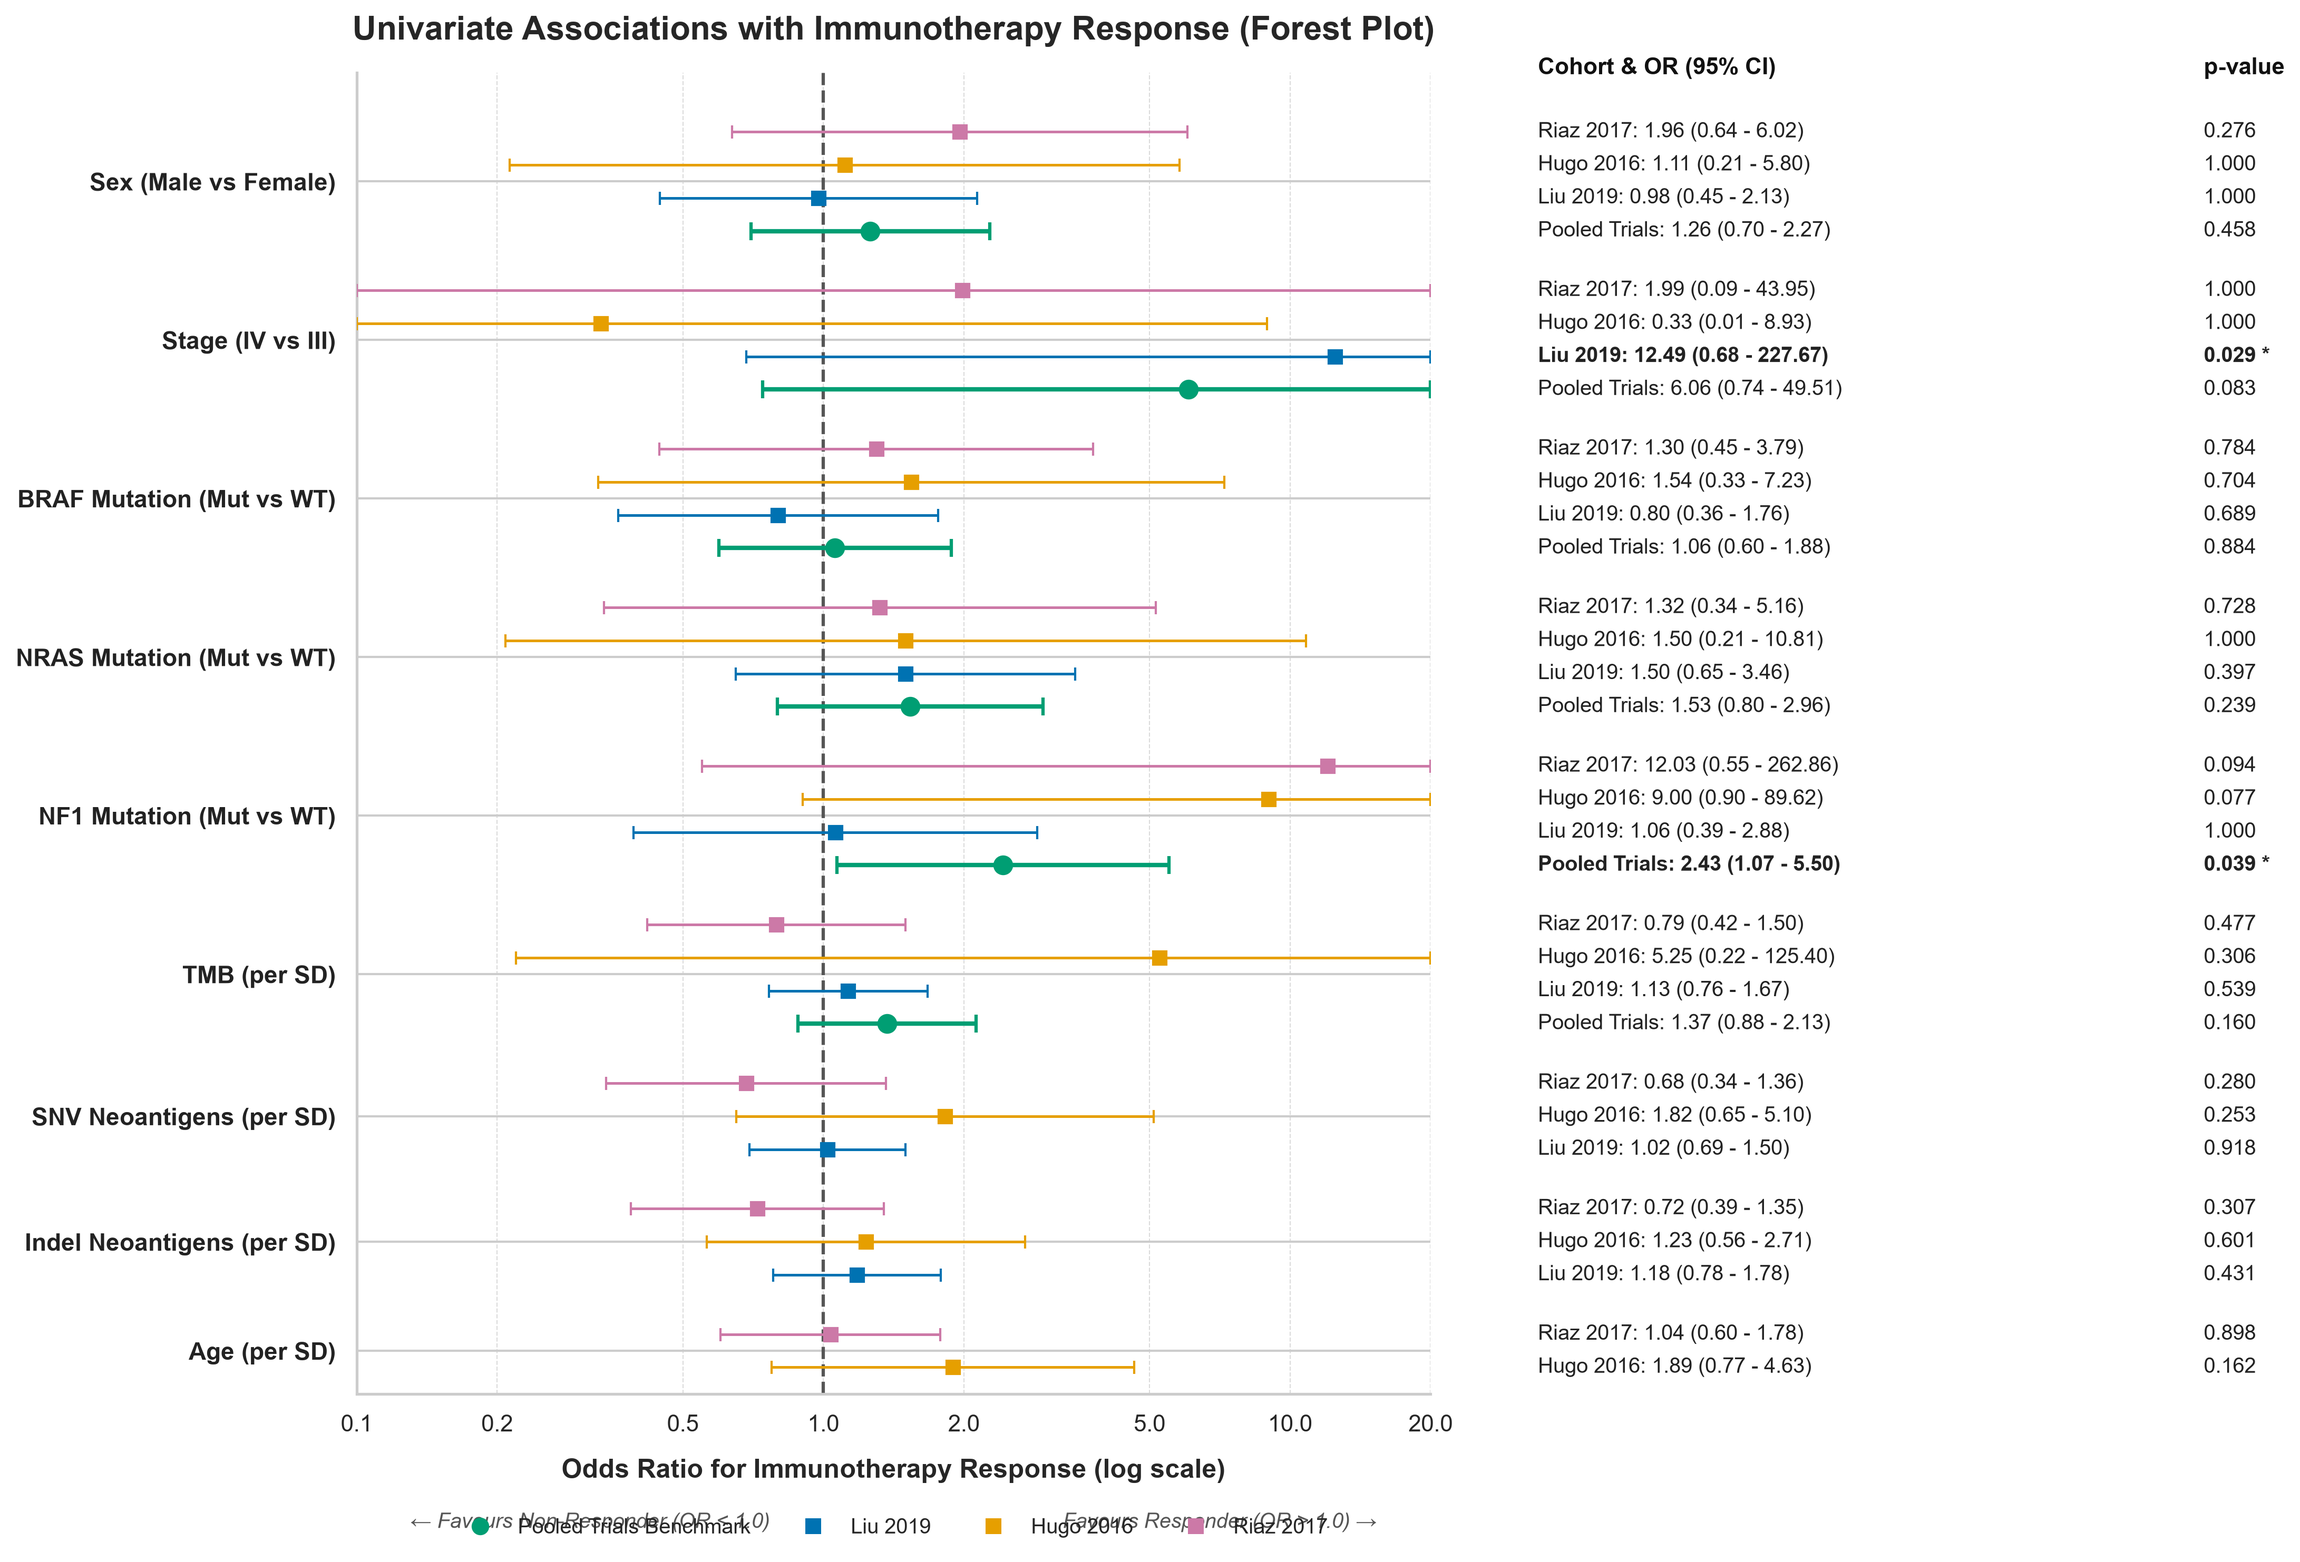
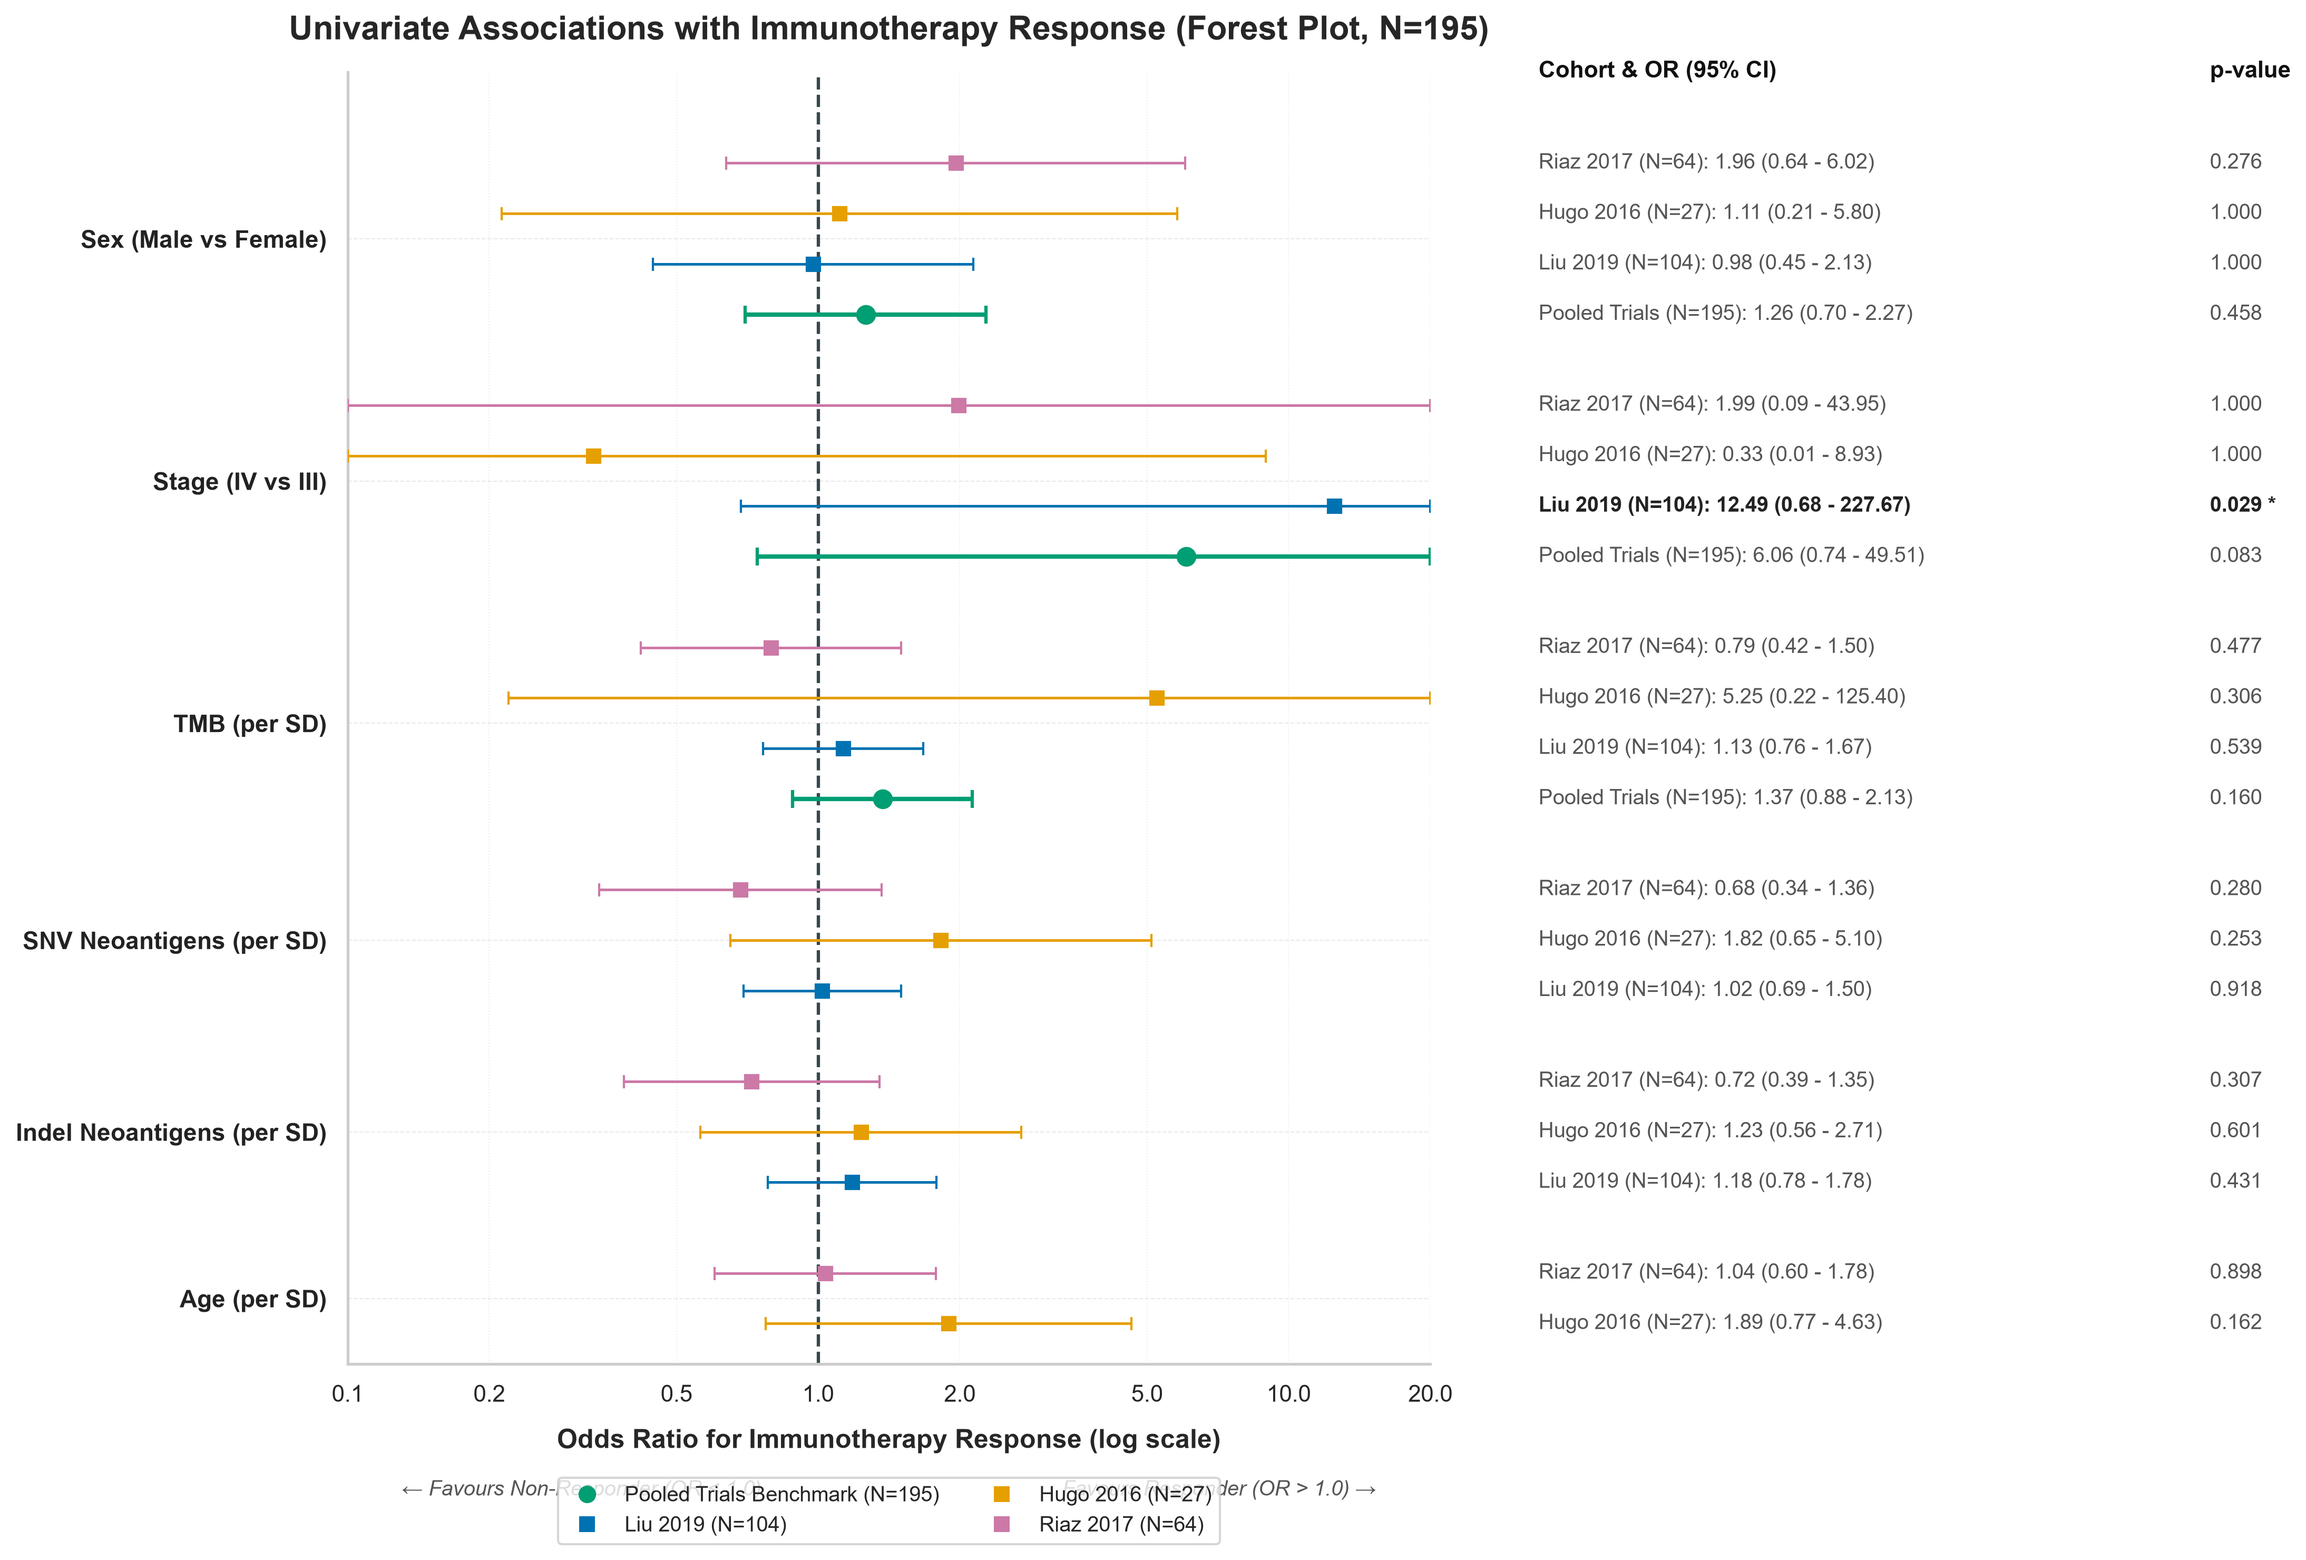
refactor(clinical-analysis): update run_univariate_associations.py to conform to project guidelines
- Use src.utils.paths constants (PLOTS_DIR, LOG_DIR, DATA_DIR, rel_path) instead of hardcoded paths.
- Incorporate get_cohort_color and set_presentation_style from src.styles.
- Add dynamic patient sample count N to plot title and legend labels.
- Apply British English spelling throughout docstrings and comments.
- Update TeeStream log handling and save_fig figure export.

diff --git a/q1-response-predictor/scripts/clinical_analysis/run_univariate_associations.py b/q1-response-predictor/scripts/clinical_analysis/run_univariate_associations.py
@@ -1,5 +1,4 @@
-"""
-Univariate Association Analysis Script for Clinical and Genomic Variables.
+"""Univariate Association Analysis Script for Clinical and Genomic Variables.
 
 Evaluates univariate statistical associations between baseline clinical/genomic features
 (Sex, Clinical Stage, BRAF/NRAS/NF1 mutations, Age, TMB, Neoantigens) and immunotherapy response (CR/PR vs. PD)
@@ -23,21 +22,31 @@ from scipy.optimize import minimize
 from scipy.stats import fisher_exact, norm
 import seaborn as sns
 
-# Bootstrap project root resolution for top-level import
-BASE_DIR = Path(__file__).resolve().parent.parent.parent
-if str(BASE_DIR) not in sys.path:
-    sys.path.append(str(BASE_DIR))
+# ---------------------------------------------------------------------------
+# Bootstrap project root resolution for top-level imports
+# ---------------------------------------------------------------------------
+
+_SUBPROJECT_ROOT = Path(__file__).resolve().parents[2]
+if str(_SUBPROJECT_ROOT) not in sys.path:
+    sys.path.insert(0, str(_SUBPROJECT_ROOT))
 
 from src.data_loaders import load_hugo_2016, load_liu_2019, load_riaz_2017
-from src.styles import COHORT_PALETTE, set_presentation_style
+from src.styles import COHORT_PALETTE, get_cohort_color, set_presentation_style
 from src.utils.logging import TeeStream
-from src.utils.paths import find_project_root
-from src.utils.plotting import resolve_colors, save_fig
+from src.utils.paths import (
+    CONFIG_DIR,
+    DATA_DIR,
+    LOG_DIR,
+    PLOTS_DIR,
+    PROJECT_ROOT,
+    REPORTS_DIR,
+    SUBPROJECT_ROOT,
+    rel_path,
+)
+from src.utils.plotting import save_fig
 
 # Module-level Constants
-DATA_DIR = find_project_root(Path(__file__).resolve()) / "data"
-PLOT_DIR = find_project_root(Path(__file__).resolve()) / "plots" / "clinical"
-LOG_DIR = find_project_root(Path(__file__).resolve()) / "logs"
+PLOT_DIR = PLOTS_DIR / "clinical"
 LOG_PATH = LOG_DIR / "run_univariate_associations.log"
 
 CATEGORICAL_VARS: Dict[str, str] = {
@@ -56,10 +65,14 @@ CONTINUOUS_VARS: Dict[str, List[str]] = {
 }
 
 
-def _calc_categorical_or(contingency: pd.DataFrame, df_temp: pd.DataFrame, col: str) -> Tuple[float, float, float, float]:
-    """Calculates Odds Ratio and 95% CI for a 2x2 contingency matrix.
+def _calc_categorical_or(contingency: pd.DataFrame) -> Tuple[float, float, float, float]:
+    """Calculates Odds Ratio and 95% CI for a 2x2 contingency matrix using Haldane-Anscombe correction if needed.
 
-    contingency rows: variable value (0 vs 1); cols: response (0 vs 1).
+    Args:
+        contingency: 2x2 contingency matrix (variable vs response).
+
+    Returns:
+        Tuple of (odds_ratio, ci_lower, ci_upper, p_value).
     """
     a = contingency.loc[1, 1.0] if (1 in contingency.index and 1.0 in contingency.columns) else 0
     b = contingency.loc[1, 0.0] if (1 in contingency.index and 0.0 in contingency.columns) else 0
@@ -82,6 +95,10 @@ def _calc_categorical_or(contingency: pd.DataFrame, df_temp: pd.DataFrame, col: 
 
 def _fit_univariate_logit(x: np.ndarray, y: np.ndarray) -> Tuple[float, float, float, float]:
     """Fits univariate logistic regression on Z-scored continuous predictor.
+
+    Args:
+        x: Continuous feature array.
+        y: Binary response array.
 
     Returns:
         Tuple of (odds_ratio, ci_lower, ci_upper, p_value).
@@ -151,7 +168,7 @@ def calculate_associations(df: pd.DataFrame, cohort_name: str) -> pd.DataFrame:
 
             if len(temp) > 0 and len(temp[col].unique()) == 2:
                 contingency = pd.crosstab(temp[col], temp["response"])
-                or_val, lower, upper, p_val = _calc_categorical_or(contingency, temp, col)
+                or_val, lower, upper, p_val = _calc_categorical_or(contingency)
                 results.append({
                     "Cohort": cohort_name,
                     "Variable": label,
@@ -206,6 +223,11 @@ def _prepare_clinical_cohorts(data_dir: Path) -> Dict[str, pd.DataFrame]:
     _, clin_riaz = load_riaz_2017(data_dir)
 
     for df in [clin_liu, clin_hugo, clin_riaz]:
+        if "RESPONSE_BINARY" in df.columns:
+            df["response"] = df["RESPONSE_BINARY"]
+        elif "RESPONDER" in df.columns:
+            df["response"] = df["RESPONDER"].map({True: 1.0, False: 0.0, 1.0: 1.0, 0.0: 0.0, "1": 1.0, "0": 0.0, "CR/PR": 1.0, "PD": 0.0})
+
         if "SEX" in df.columns:
             df["SEX"] = df["SEX"].map({"Male": "Male", "Female": "Female", "M": "Male", "F": "Female"})
         if "CLINICAL_STAGE" in df.columns:
@@ -220,23 +242,17 @@ def _prepare_clinical_cohorts(data_dir: Path) -> Dict[str, pd.DataFrame]:
     }
 
 
-def _plot_univariate_associations(all_results: pd.DataFrame, plot_dir: Path) -> None:
+def _plot_univariate_associations(all_results: pd.DataFrame, cohort_counts: Dict[str, int], plot_dir: Path) -> None:
     """Renders a publication-ready Forest Plot of Odds Ratios with 95% CIs.
 
     Args:
         all_results: Combined DataFrame of univariate statistical association results.
+        cohort_counts: Dictionary mapping cohort names to dynamic patient sample counts.
         plot_dir: Path to export output plot figure and CSV table.
     """
     cohort_order = ["Pooled Trials", "Liu 2019", "Hugo 2016", "Riaz 2017"]
-    cohort_colors = {
-        "Liu 2019": COHORT_PALETTE["Liu 2019"],
-        "Hugo 2016": COHORT_PALETTE["Hugo 2016"],
-        "Riaz 2017": COHORT_PALETTE["Riaz 2017"],
-        "Pooled Trials": COHORT_PALETTE["Pooled Trials"],
-    }
 
     variables = all_results["Variable"].unique().tolist()
-    n_vars = len(variables)
 
     set_presentation_style()
     sns.set_theme(style="whitegrid")
@@ -244,9 +260,9 @@ def _plot_univariate_associations(all_results: pd.DataFrame, plot_dir: Path) -> 
     plt.subplots_adjust(left=0.28, right=0.62, top=0.90, bottom=0.12)
 
     ax.set_xscale("log")
-    ax.axvline(1.0, color="#555555", linestyle="--", linewidth=1.5, zorder=1)
+    ax.axvline(1.0, color="#37474F", linestyle="--", linewidth=1.5, zorder=1)
 
-    y_pos = 0
+    y_pos = 0.0
     y_ticks = []
     y_labels = []
 
@@ -265,9 +281,10 @@ def _plot_univariate_associations(all_results: pd.DataFrame, plot_dir: Path) -> 
             upper = row["95% CI Upper"]
             p_val = row["p-value"]
 
-            color = cohort_colors.get(cohort, "#333333")
+            color = get_cohort_color(cohort)
             is_sig = p_val < 0.05
             weight = "bold" if is_sig else "normal"
+            text_color = "#222222" if is_sig else "#555555"
 
             # Bound CIs for visual plotting display
             disp_lower = max(0.1, lower)
@@ -292,8 +309,9 @@ def _plot_univariate_associations(all_results: pd.DataFrame, plot_dir: Path) -> 
             if is_sig:
                 lbl_p += " *"
 
-            ax.text(1.10, y_pos, f"{cohort}: {lbl_or}", transform=ax.get_yaxis_transform(), va="center", ha="left", fontsize=9.5, color="#222222", weight=weight)
-            ax.text(1.72, y_pos, lbl_p, transform=ax.get_yaxis_transform(), va="center", ha="left", fontsize=9.5, color="#222222", weight=weight)
+            cohort_label = f"{cohort} (N={cohort_counts.get(cohort, 0)})"
+            ax.text(1.10, y_pos, f"{cohort_label}: {lbl_or}", transform=ax.get_yaxis_transform(), va="center", ha="left", fontsize=9.5, color=text_color, weight=weight)
+            ax.text(1.72, y_pos, lbl_p, transform=ax.get_yaxis_transform(), va="center", ha="left", fontsize=9.5, color=text_color, weight=weight)
 
             y_pos += 1.0
 
@@ -312,30 +330,33 @@ def _plot_univariate_associations(all_results: pd.DataFrame, plot_dir: Path) -> 
     ax.xaxis.set_major_formatter(ScalarFormatter())
     ax.tick_params(axis="x", which="both", labelsize=10.5)
 
+    n_pooled = cohort_counts.get("Pooled Trials", 0)
     ax.set_xlabel("Odds Ratio for Immunotherapy Response (log scale)", fontsize=12, labelpad=10, weight="bold")
-    ax.set_title("Univariate Associations with Immunotherapy Response (Forest Plot)", fontsize=15, fontweight="bold", pad=15)
+    ax.set_title(f"Univariate Associations with Immunotherapy Response (Forest Plot, N={n_pooled})", fontsize=15, fontweight="bold", pad=15)
 
     ax.text(0.95, -0.09, "Favours Responder (OR > 1.0) \u2192", transform=ax.transAxes, ha="right", va="top", color="#555555", fontsize=9.5, style="italic")
     ax.text(0.05, -0.09, "\u2190 Favours Non-Responder (OR < 1.0)", transform=ax.transAxes, ha="left", va="top", color="#555555", fontsize=9.5, style="italic")
 
     legend_elements = [
-        mlines.Line2D([0], [0], marker="o", color="none", markerfacecolor=COHORT_PALETTE["Pooled Trials"], markeredgecolor="none", markersize=8, label="Pooled Trials Benchmark"),
-        mlines.Line2D([0], [0], marker="s", color="none", markerfacecolor=COHORT_PALETTE["Liu 2019"], markeredgecolor="none", markersize=7, label="Liu 2019"),
-        mlines.Line2D([0], [0], marker="s", color="none", markerfacecolor=COHORT_PALETTE["Hugo 2016"], markeredgecolor="none", markersize=7, label="Hugo 2016"),
-        mlines.Line2D([0], [0], marker="s", color="none", markerfacecolor=COHORT_PALETTE["Riaz 2017"], markeredgecolor="none", markersize=7, label="Riaz 2017"),
+        mlines.Line2D([0], [0], marker="o", color="none", markerfacecolor=get_cohort_color("Pooled Trials"), markeredgecolor="none", markersize=8, label=f"Pooled Trials Benchmark (N={cohort_counts.get('Pooled Trials', 0)})"),
+        mlines.Line2D([0], [0], marker="s", color="none", markerfacecolor=get_cohort_color("Liu 2019"), markeredgecolor="none", markersize=7, label=f"Liu 2019 (N={cohort_counts.get('Liu 2019', 0)})"),
+        mlines.Line2D([0], [0], marker="s", color="none", markerfacecolor=get_cohort_color("Hugo 2016"), markeredgecolor="none", markersize=7, label=f"Hugo 2016 (N={cohort_counts.get('Hugo 2016', 0)})"),
+        mlines.Line2D([0], [0], marker="s", color="none", markerfacecolor=get_cohort_color("Riaz 2017"), markeredgecolor="none", markersize=7, label=f"Riaz 2017 (N={cohort_counts.get('Riaz 2017', 0)})"),
     ]
-    ax.legend(handles=legend_elements, loc="upper center", bbox_to_anchor=(0.5, -0.08), ncol=4, frameon=False, fontsize=9.5)
+    ax.legend(handles=legend_elements, loc="upper center", bbox_to_anchor=(0.5, -0.08), ncol=2, frameon=True, facecolor="white", edgecolor="#CCCCCC", fontsize=9.5)
 
     sns.despine(ax=ax, top=True, right=True)
-    ax.grid(True, axis="x", linestyle="--", linewidth=0.5, color="#cccccc", alpha=0.7)
+    ax.yaxis.grid(True, linestyle="--", color="#E0E0E0", linewidth=0.5, alpha=0.7)
+    ax.xaxis.grid(True, linestyle=":", color="#E0E0E0", linewidth=0.5, alpha=0.5)
+    ax.set_axisbelow(True)
 
     out_path = plot_dir / "univariate_associations.png"
     save_fig(fig, out_path)
-    print(f"\nSaved univariate associations forest plot to {out_path.relative_to(BASE_DIR).as_posix()}")
+    print(f"\nSaved univariate associations forest plot to {rel_path(out_path)}")
 
     csv_path = plot_dir / "univariate_associations_stats.csv"
     all_results.to_csv(csv_path, index=False)
-    print(f"Saved univariate association statistics table to {csv_path.relative_to(BASE_DIR).as_posix()}")
+    print(f"Saved univariate association statistics table to {rel_path(csv_path)}")
 
 
 def main() -> None:
@@ -360,10 +381,17 @@ def main() -> None:
     ], ignore_index=True)
     results_pooled = calculate_associations(pooled_df, "Pooled Trials")
 
+    cohort_counts = {
+        "Liu 2019": len(cohorts["Liu 2019"][cohorts["Liu 2019"]["response"].notna()]),
+        "Hugo 2016": len(cohorts["Hugo 2016"][cohorts["Hugo 2016"]["response"].notna()]),
+        "Riaz 2017": len(cohorts["Riaz 2017"][cohorts["Riaz 2017"]["response"].notna()]),
+        "Pooled Trials": len(pooled_df[pooled_df["response"].notna()]),
+    }
+
     all_results = pd.concat([results_liu, results_hugo, results_riaz, results_pooled], ignore_index=True)
     print(all_results.to_string())
 
-    _plot_univariate_associations(all_results, PLOT_DIR)
+    _plot_univariate_associations(all_results, cohort_counts, PLOT_DIR)
 
     print("\n==================================================")
     print("Done!")
@@ -376,5 +404,5 @@ if __name__ == "__main__":
         stdout_tee = TeeStream(sys.stdout, log_file)
         stderr_tee = TeeStream(sys.stderr, log_file)
         with contextlib.redirect_stdout(stdout_tee), contextlib.redirect_stderr(stderr_tee):
-            print(f"Logging console output to {LOG_PATH.relative_to(BASE_DIR).as_posix()}")
+            print(f"Logging console output to {rel_path(LOG_PATH)}")
             main()
